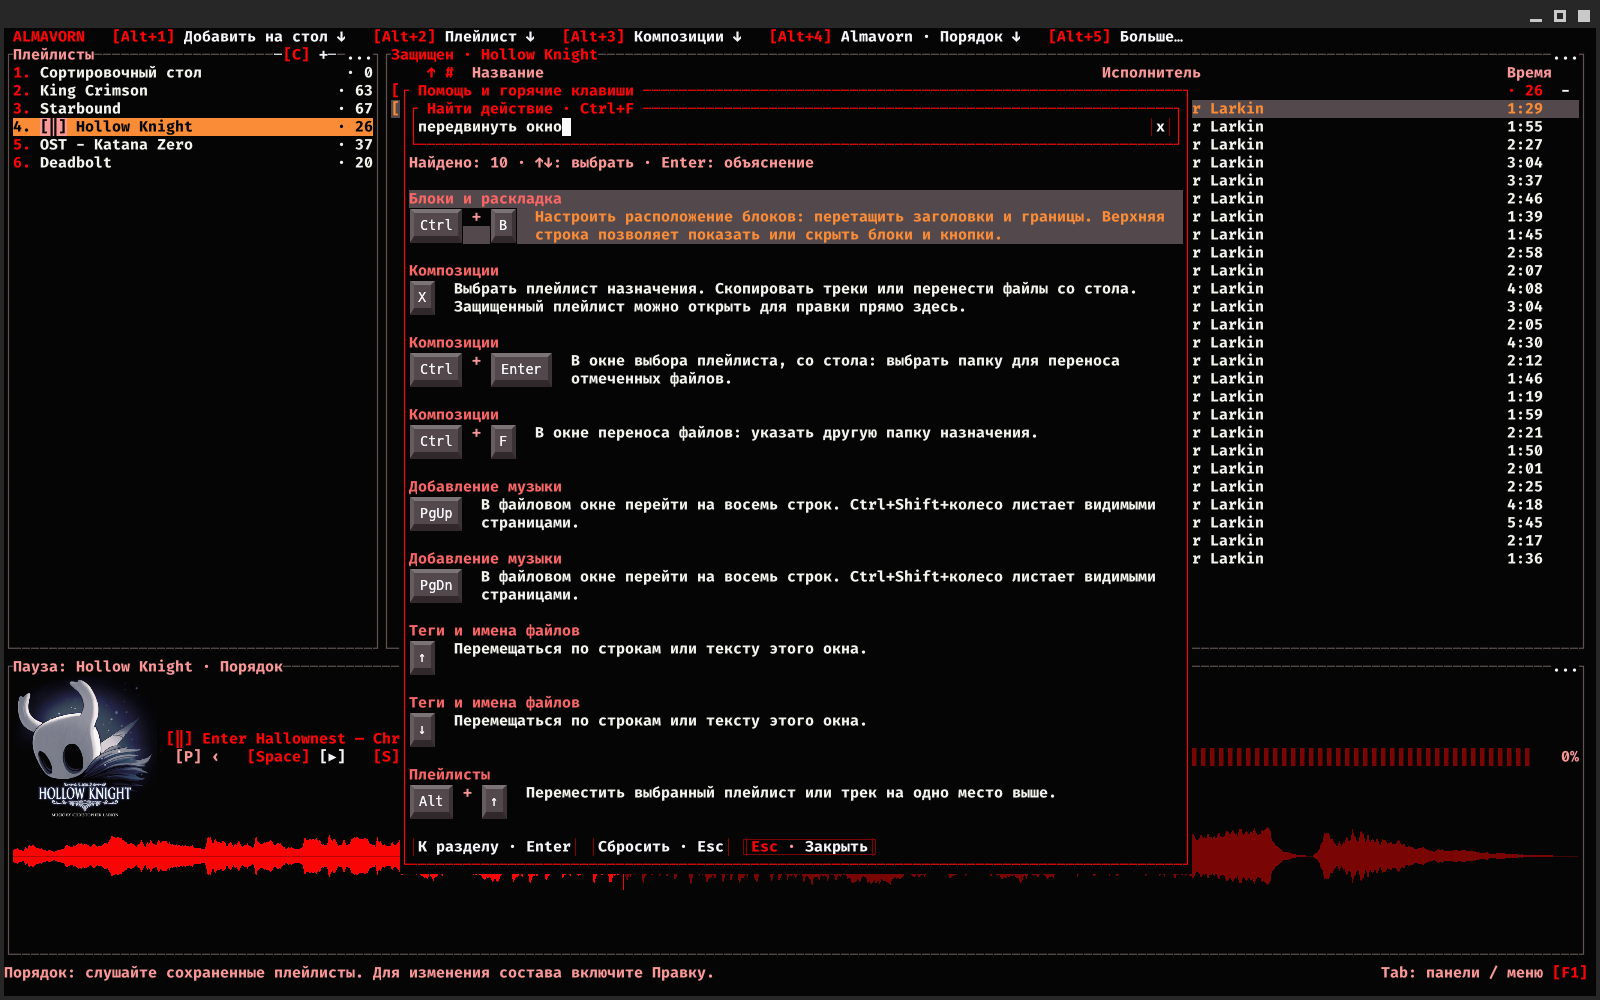
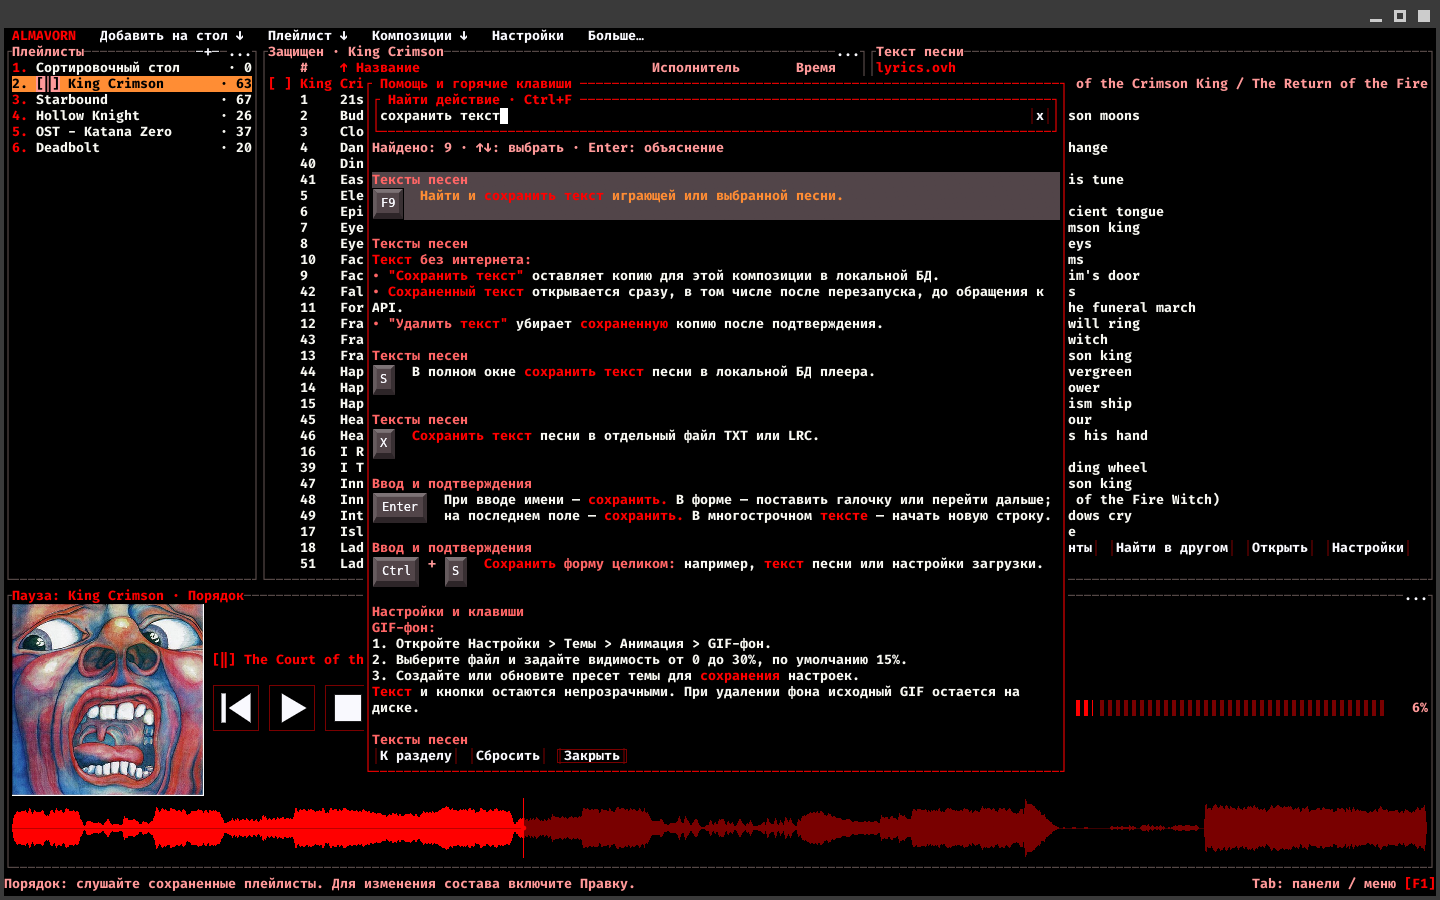
Перенесены готовые скриншоты текстов песен и помощи в README

Changed region(s): [[0.0, 0.0, 1.0, 1.0]]

diff --git a/README.ru.md b/README.ru.md
@@ -14,9 +14,9 @@
 <p align="center"><a href="#install">Установить</a> &nbsp; · &nbsp; <a href="#screenshots">Скриншоты</a> &nbsp; · &nbsp; <a href="#first-launch">Первый&nbsp;запуск</a> &nbsp; · &nbsp; <a href="#help">Помочь&nbsp;проекту</a></p>
 
 <p align="center">
-  <a href="docs/images/almavorn-lyrics-panel.png"><img src="docs/images/almavorn-lyrics-panel.png" width="100%" alt="King Crimson, The Court of the Crimson King: текст найден в Genius и открыт рядом с композицией и плейлистами."></a>
+   <a href="docs/images/almavorn-lyrics-panel.png"><img src="docs/images/almavorn-lyrics-panel.png" width="100%" alt="King Crimson, The Court of the Crimson King: текст найден через lyrics.ovh и сохранен для чтения без интернета. Рядом остаются композиции и плейлисты."></a>
   <br>
-  <sub>King Crimson, The Court of the Crimson King: текст найден в Genius и открыт рядом с композицией и плейлистами.</sub>
+  <sub>King Crimson, The Court of the Crimson King: текст найден через lyrics.ovh и сохранен для чтения без интернета. Рядом остаются композиции и плейлисты.</sub>
 </p>
 
 <p align="center"><img src="docs/images/readme/divider.svg" width="100%" alt=""></p>
@@ -100,9 +100,9 @@
 </p>
 
 <p align="center">
-  <a href="docs/images/almavorn-help-search.png"><img src="docs/images/almavorn-help-search.png" width="100%" alt="Поиск в помощи своими словами: запрос &quot;передвинуть окно&quot; находит настройку блоков и показывает ваши горячие клавиши."></a>
+  <a href="docs/images/almavorn-help-search.png"><img src="docs/images/almavorn-help-search.png" width="100%" alt="Поиск в помощи: запрос &quot;сохранить текст&quot; находит нужные действия, выделяет совпадения и показывает ваши клавиши."></a>
   <br>
-  <sub>Поиск в помощи своими словами: запрос "передвинуть окно" находит настройку блоков и показывает ваши горячие клавиши.</sub>
+  <sub>Поиск в помощи: запрос "сохранить текст" находит нужные действия, выделяет совпадения и показывает ваши клавиши.</sub>
 </p>
 
 <p align="center">

diff --git a/README.md b/README.md
@@ -14,9 +14,9 @@
 <p align="center"><a href="#install">Install</a> &nbsp; · &nbsp; <a href="#screenshots">Screenshots</a> &nbsp; · &nbsp; <a href="#first-launch">Getting&nbsp;started</a> &nbsp; · &nbsp; <a href="#help">Contribute</a></p>
 
 <p align="center">
-  <a href="docs/images/almavorn-lyrics-panel.png"><img src="docs/images/almavorn-lyrics-panel.png" width="100%" alt="King Crimson, The Court of the Crimson King: lyrics found on Genius, alongside the track list and playlists."></a>
+  <a href="docs/images/almavorn-lyrics-panel.png"><img src="docs/images/almavorn-lyrics-panel.png" width="100%" alt="King Crimson, The Court of the Crimson King: lyrics found through lyrics.ovh and saved for offline reading, alongside the track list and playlists."></a>
   <br>
-  <sub>King Crimson, The Court of the Crimson King: lyrics found on Genius, alongside the track list and playlists.</sub>
+  <sub>King Crimson, The Court of the Crimson King: lyrics found through lyrics.ovh and saved for offline reading, alongside the track list and playlists.</sub>
 </p>
 
 <p align="center"><img src="docs/images/readme/divider.svg" width="100%" alt=""></p>
@@ -100,9 +100,9 @@ The tag editor writes changes to the audio file itself. Those changes affect tha
 </p>
 
 <p align="center">
-  <a href="docs/images/almavorn-help-search.png"><img src="docs/images/almavorn-help-search.png" width="100%" alt="Search Help in your own words: &quot;move a window&quot; finds the layout controls and shows your current shortcuts."></a>
+  <a href="docs/images/almavorn-help-search.png"><img src="docs/images/almavorn-help-search.png" width="100%" alt="Help search highlights matching words and shows actions for saving lyrics, with your current shortcuts."></a>
   <br>
-  <sub>Search Help in your own words: "move a window" finds the layout controls and shows your current shortcuts.</sub>
+  <sub>Help search highlights matching words and shows actions for saving lyrics, with your current shortcuts.</sub>
 </p>
 
 <p align="center">
